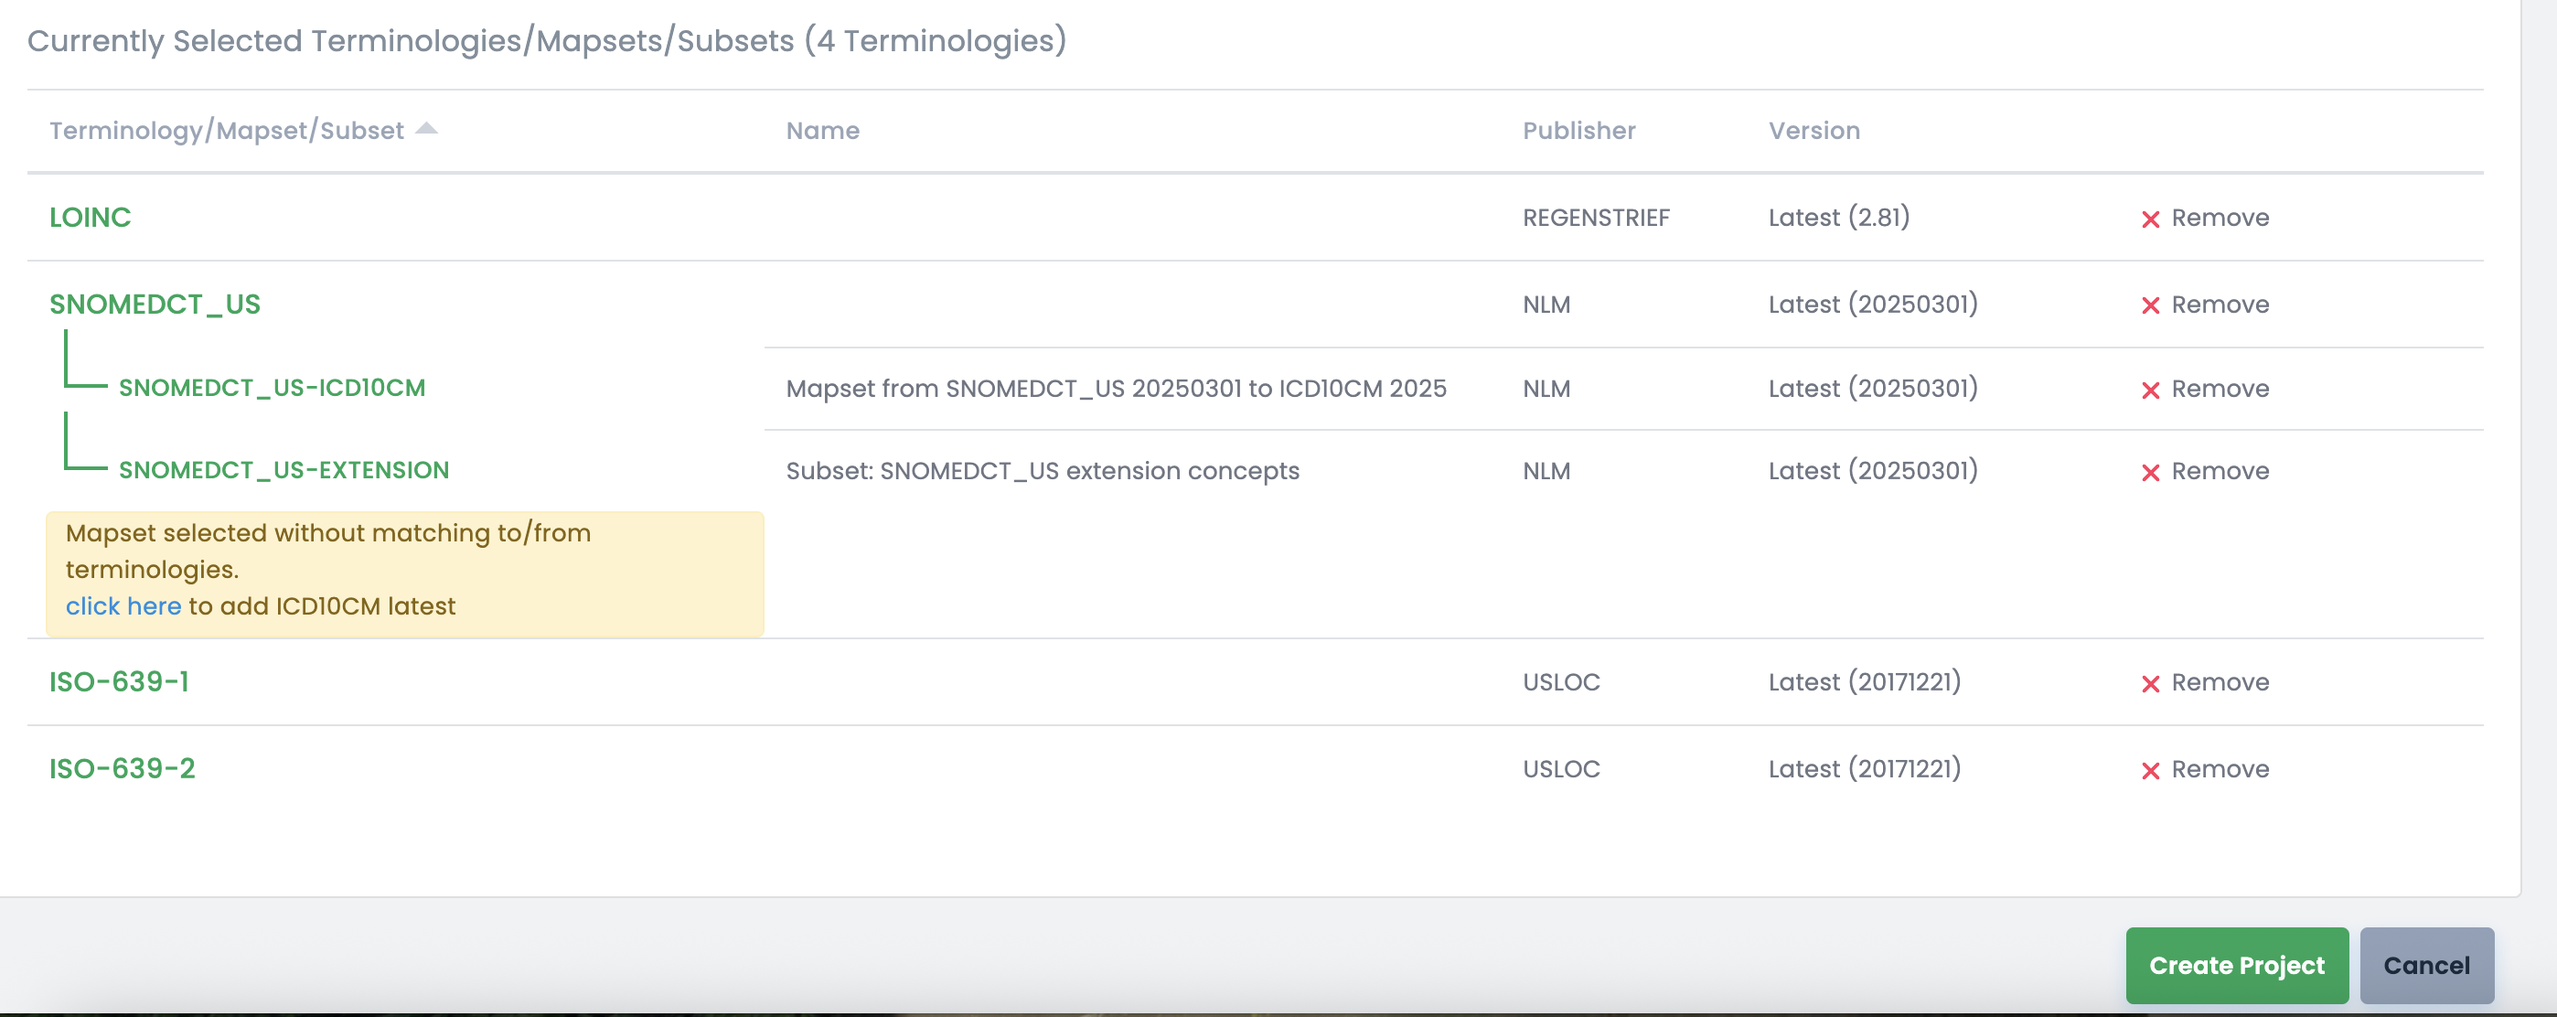
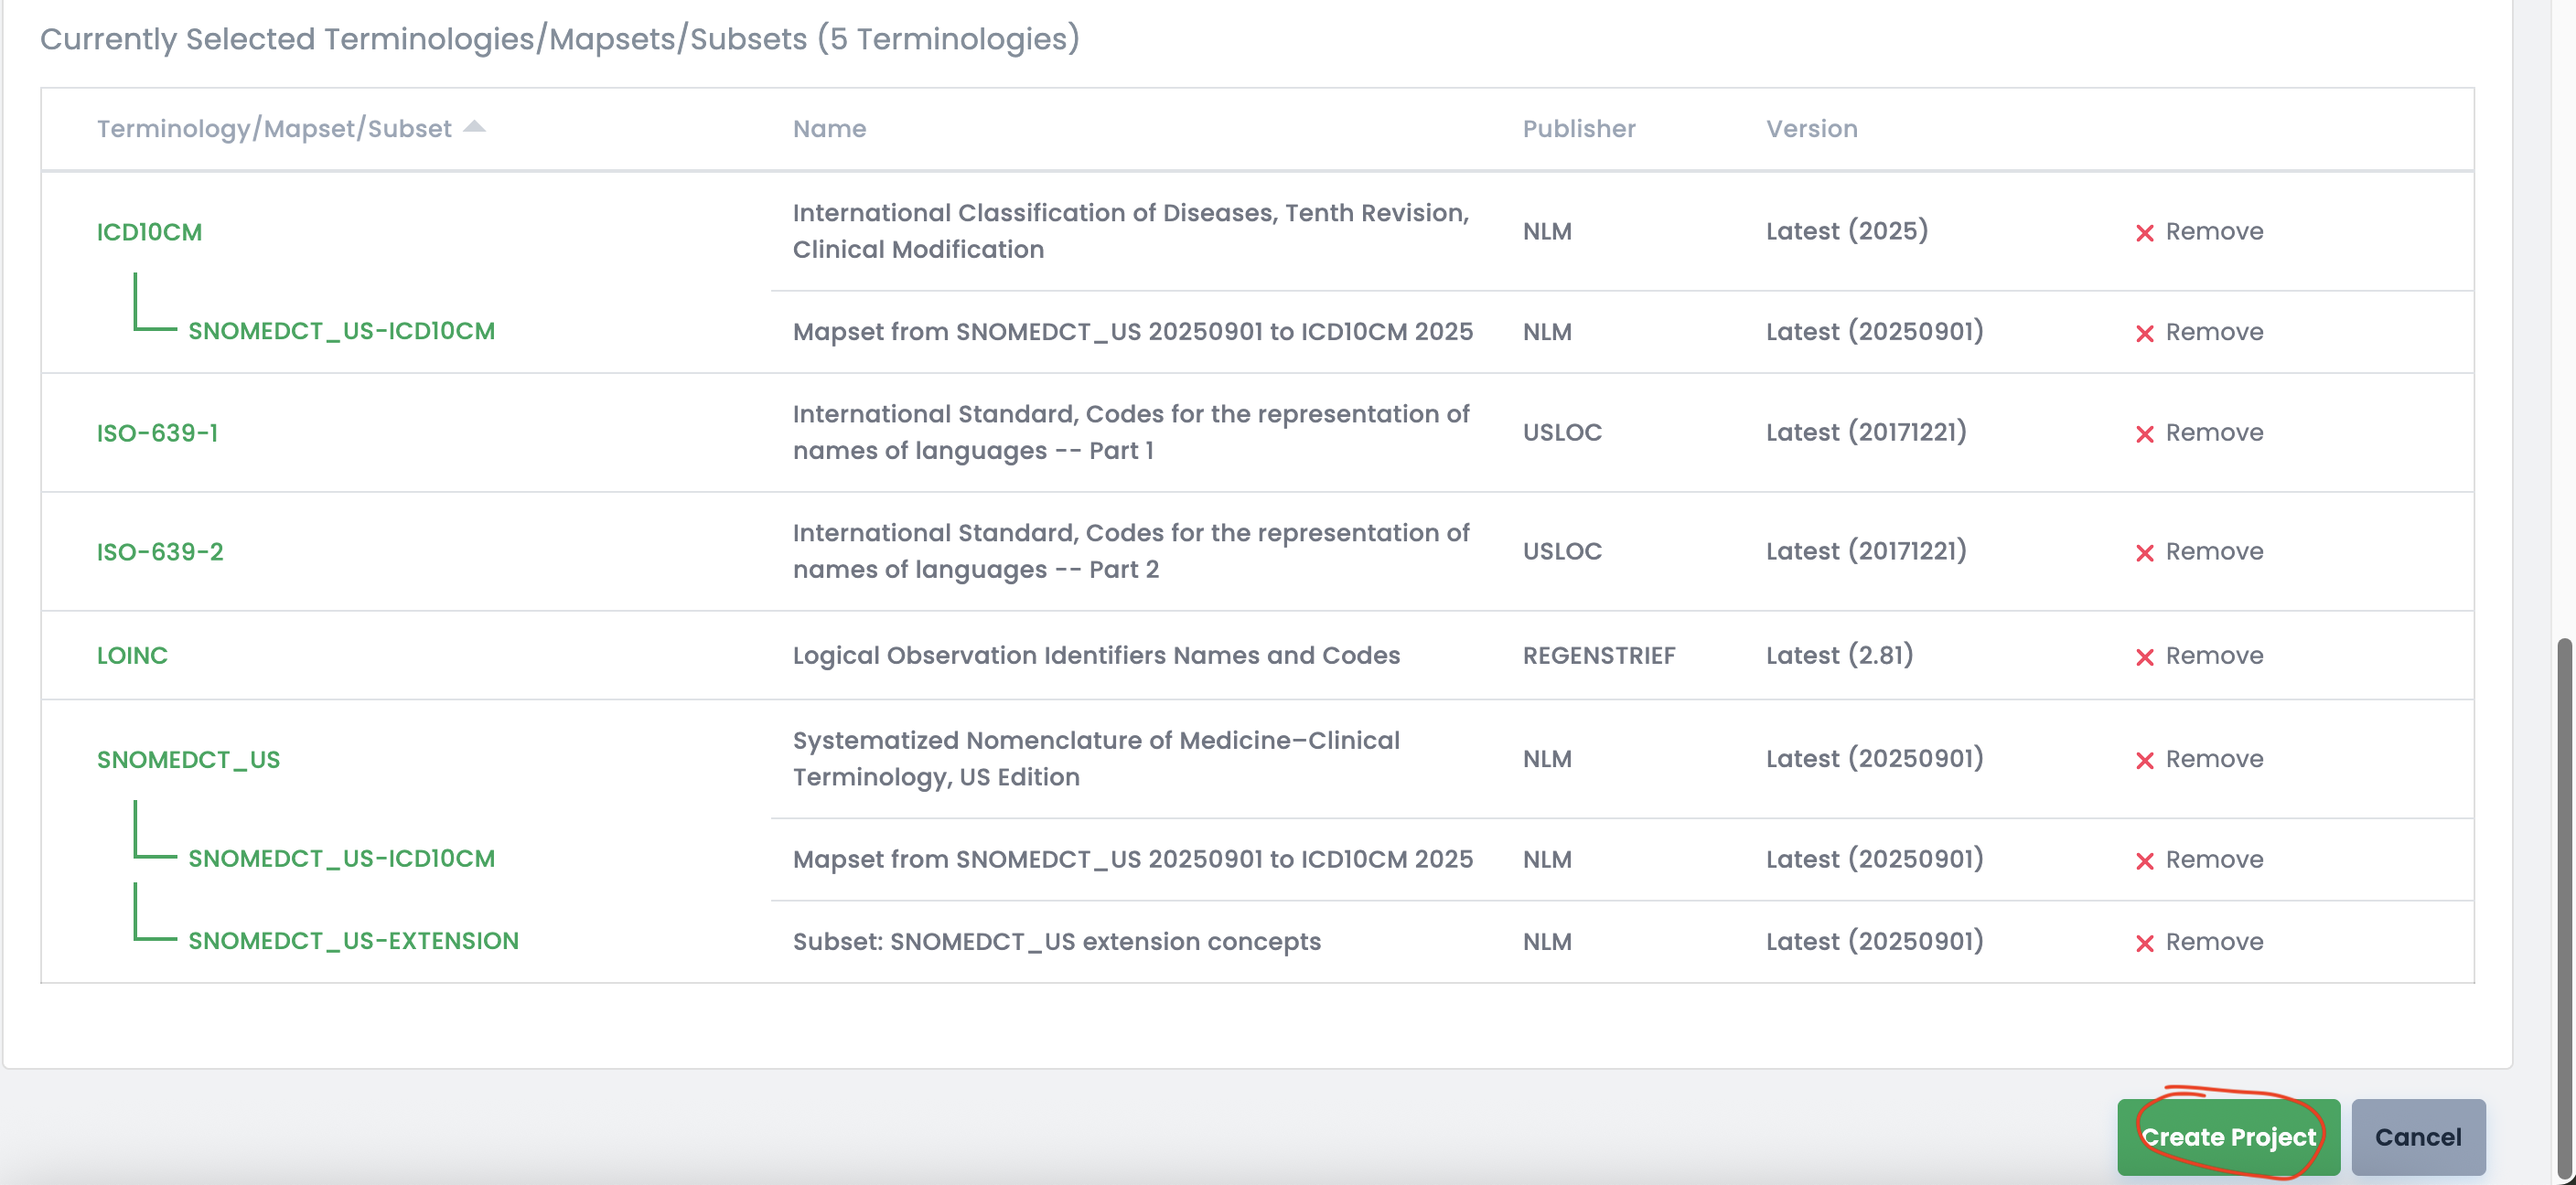
Add TUTORIAL3.md and changes to support testing it

diff --git a/src/main/java/com/wci/termhub/util/CodeSystemLoaderUtil.java b/src/main/java/com/wci/termhub/util/CodeSystemLoaderUtil.java
@@ -95,17 +95,17 @@ public final class CodeSystemLoaderUtil {
    * @param <T> the generic type
    * @param service the service
    * @param file the file
-   * @param computeTreePositions whether to compute tree positions
+   * @param enablePostLoadComputations whether to compute tree positions
    * @param type the type
    * @param listener the listener
    * @return the string
    * @throws Exception the exception
    */
   public static <T> T loadCodeSystem(final EntityRepositoryService service, final File file,
-    final boolean computeTreePositions, final Class<T> type, final ProgressListener listener)
+    final boolean enablePostLoadComputations, final Class<T> type, final ProgressListener listener)
     throws Exception {
 
-    return loadCodeSystem(service, file, computeTreePositions, type, listener, null);
+    return loadCodeSystem(service, file, enablePostLoadComputations, type, listener, null);
   }
 
   /**
@@ -114,7 +114,7 @@ public final class CodeSystemLoaderUtil {
    * @param <T>                  the generic type
    * @param service              the service
    * @param file                 the file
-   * @param computeTreePositions whether to compute tree positions
+   * @param enablePostLoadComputations whether to compute tree positions
    * @param type                 the type
    * @param listener             the listener
    * @param isSyndicated         the is syndicated
@@ -122,11 +122,11 @@ public final class CodeSystemLoaderUtil {
    * @throws Exception the exception
    */
   public static <T> T loadCodeSystem(final EntityRepositoryService service, final File file,
-      final boolean computeTreePositions, final Class<T> type, final ProgressListener listener,
+      final boolean enablePostLoadComputations, final Class<T> type, final ProgressListener listener,
       final Boolean isSyndicated) throws Exception {
 
     SystemReportUtility.logMemory();
-    return indexCodeSystem(service, file, computeTreePositions, type, listener, isSyndicated);
+    return indexCodeSystem(service, file, enablePostLoadComputations, type, listener, isSyndicated);
   }
 
   /**
@@ -135,7 +135,7 @@ public final class CodeSystemLoaderUtil {
    * @param <T> the generic type
    * @param service the service
    * @param file the file
-   * @param computeTreePositions whether to compute tree positions
+   * @param enablePostLoadComputations whether to compute tree positions
    * @param type the type
    * @param listener the listener
    * @param isSyndicated         the is syndicated
@@ -144,7 +144,7 @@ public final class CodeSystemLoaderUtil {
    */
   @SuppressWarnings("unchecked")
   private static <T> T indexCodeSystem(final EntityRepositoryService service, final File file,
-      final boolean computeTreePositions, final Class<T> type, final ProgressListener listener,
+      final boolean enablePostLoadComputations, final Class<T> type, final ProgressListener listener,
       final Boolean isSyndicated) throws Exception {
 
     final long startTime = System.currentTimeMillis();
@@ -159,7 +159,7 @@ public final class CodeSystemLoaderUtil {
 
       // Set listener to 0%
       listener.updateProgress(new ProgressEvent(0));
-      final int progressDenominator = computeTreePositions ? 50 : 100;
+      final int progressDenominator = enablePostLoadComputations ? 50 : 100;
       final float progressScale = 100.0f * progressDenominator / 100.0f;
 
       LOGGER.info("Indexing CodeSystem {} = {}", jsonContent.path("title"),
@@ -189,7 +189,7 @@ public final class CodeSystemLoaderUtil {
       }
 
       // Create the terminology
-      terminology = createTerminology(service, jsonContent, computeTreePositions);
+      terminology = createTerminology(service, jsonContent, enablePostLoadComputations);
 
       // Extract metadata from root
       final List<Metadata> metadataList = createMetadata(terminology, jsonContent);
@@ -330,7 +330,7 @@ public final class CodeSystemLoaderUtil {
       termBatch.clear();
 
       // compute tree positions if required
-      if (computeTreePositions) {
+      if (enablePostLoadComputations) {
 
         // Set listener to 51%
         listener.updateProgress(new ProgressEvent(51));
@@ -413,12 +413,12 @@ public final class CodeSystemLoaderUtil {
    *
    * @param service the service
    * @param root the root
-   * @param computeTreePositions the compute tree positions
+   * @param enablePostLoadComputations the compute tree positions
    * @return the terminology
    * @throws Exception the exception
    */
   private static Terminology createTerminology(final EntityRepositoryService service,
-    final JsonNode root, final boolean computeTreePositions) throws Exception {
+    final JsonNode root, final boolean enablePostLoadComputations) throws Exception {
 
     // Validate that this is a CodeSystem resource
     if (!root.has("resourceType") || !"CodeSystem".equals(root.get("resourceType").asText())) {
@@ -471,7 +471,7 @@ public final class CodeSystemLoaderUtil {
     }
     attributes.put("fhirVersion", root.path("version").asText());
     attributes.put(Terminology.Attributes.treePositions.property(),
-        Boolean.toString(computeTreePositions));
+        Boolean.toString(enablePostLoadComputations));
     terminology.setAttributes(attributes);
 
     if (LOGGER.isDebugEnabled()) {

diff --git a/src/main/java/com/wci/termhub/util/ValueSetLoaderUtil.java b/src/main/java/com/wci/termhub/util/ValueSetLoaderUtil.java
@@ -83,8 +83,7 @@ public final class ValueSetLoaderUtil {
   }
 
   /**
-   * Loads a FHIR ValueSet (R4 or R5) from JSON, maps to Subset/SubsetMember,
-   * and persists.
+   * Loads a FHIR ValueSet (R4 or R5) from JSON, maps to Subset/SubsetMember, and persists.
    *
    * @param <T> the generic type
    * @param service the repository service
@@ -100,8 +99,7 @@ public final class ValueSetLoaderUtil {
   }
 
   /**
-   * Loads a FHIR ValueSet (R4 or R5) from JSON, maps to Subset/SubsetMember,
-   * and persists.
+   * Loads a FHIR ValueSet (R4 or R5) from JSON, maps to Subset/SubsetMember, and persists.
    *
    * @param <T> the generic type
    * @param service the repository service
@@ -114,7 +112,8 @@ public final class ValueSetLoaderUtil {
    */
   @SuppressWarnings("unchecked")
   public static <T> T loadValueSet(final EntityRepositoryService service, final File file,
-    final Class<T> type, final ProgressListener listener, final Boolean isSyndicated) throws Exception {
+    final Class<T> type, final ProgressListener listener, final Boolean isSyndicated)
+    throws Exception {
 
     LOGGER.info("Loading Subset from JSON, isR5={}", type == org.hl7.fhir.r5.model.ValueSet.class);
 
@@ -162,8 +161,8 @@ public final class ValueSetLoaderUtil {
       final String abbreviation = valueSet.getTitle();
       final String publisher = valueSet.getPublisher();
       final String version = valueSet.getVersion();
-      if (abbreviation == null || abbreviation.isEmpty() || publisher == null
-          || publisher.isEmpty() || version == null || version.isEmpty()) {
+      if (abbreviation == null || abbreviation.isEmpty() || publisher == null || publisher.isEmpty()
+          || version == null || version.isEmpty()) {
         throw FhirUtilityR4.exception(
             "ValueSet requires title, publisher, and version for import (missing one or more)",
             IssueType.INVALID, HttpServletResponse.SC_BAD_REQUEST);
@@ -393,7 +392,7 @@ public final class ValueSetLoaderUtil {
 
     try {
 
-      LOGGER.info("Indexing ValueSet R4 {} = {}", valueSet.getTitle(), valueSet.getUrl());
+      LOGGER.info("Indexing ValueSet R5 {} = {}", valueSet.getTitle(), valueSet.getUrl());
       // Basic checks
       // Validate required fields
       if (valueSet.getUrl() == null) {

diff --git a/src/main/java/com/wci/termhub/rest/BulkLoadRestImpl.java b/src/main/java/com/wci/termhub/rest/BulkLoadRestImpl.java
@@ -10,6 +10,7 @@
 package com.wci.termhub.rest;
 
 import java.io.File;
+import java.io.InputStream;
 import java.util.ArrayList;
 import java.util.HashMap;
 import java.util.List;
@@ -251,7 +252,9 @@ public class BulkLoadRestImpl {
 
       // Write to a file so we can re-open streams against it
       final File file = File.createTempFile("tmp", ".json");
-      FileUtils.writeByteArrayToFile(file, resourceFile.getBytes());
+      try (final InputStream is = resourceFile.getInputStream()) {
+        FileUtils.copyInputStreamToFile(is, file);
+      }
 
       // If not running in the background -> load and return the resource
       if (!background) {
@@ -369,7 +372,9 @@ public class BulkLoadRestImpl {
 
       // Write to a file so we can re-open streams against it
       final File file = File.createTempFile("tmp", ".json");
-      FileUtils.writeByteArrayToFile(file, resourceFile.getBytes());
+      try (final InputStream is = resourceFile.getInputStream()) {
+        FileUtils.copyInputStreamToFile(is, file);
+      }
 
       // If not running in the background -> load and return the resource
       if (!background) {
@@ -484,7 +489,9 @@ public class BulkLoadRestImpl {
 
       // Write to a file so we can re-open streams against it
       final File file = File.createTempFile("tmp", ".json");
-      FileUtils.writeByteArrayToFile(file, resourceFile.getBytes());
+      try (final InputStream is = resourceFile.getInputStream()) {
+        FileUtils.copyInputStreamToFile(is, file);
+      }
 
       // If not running in the background -> load and return the resource
       if (!background) {
@@ -601,7 +608,10 @@ public class BulkLoadRestImpl {
 
       // Write to a file so we can re-open streams against it
       final File file = File.createTempFile("tmp", ".json");
-      FileUtils.writeByteArrayToFile(file, resourceFile.getBytes());
+      try (final InputStream is = resourceFile.getInputStream()) {
+        FileUtils.copyInputStreamToFile(is, file);
+      }
+
       final List<String> results = new ArrayList<>();
 
       if (!background) {

diff --git a/doc/TUTORIAL3.md b/doc/TUTORIAL3.md
@@ -13,9 +13,13 @@ Instructions on using data from a TermHub project to Open Termhub up and running
 
 Start by going to the [Termhub Signup Page](https://app.terminologyhub.com/signup).  You can sign up with a username/password or via social login using a Google or Microsoft account.  Your email address will be your username.
 
+<img width="300px" src="images/signup.png">
+
 ### Logging in (once you have created an account)
 
 Go to the [Termhub Login Page](https://app.terminologyhub.com/login) and log in using the account created in the previous step.
+
+<img width="300px" src="images/login.png">
 
 **[Back to top](#step-by-step-instructions-to-deploy-terminologies-with-termhub)**
 
@@ -33,55 +37,73 @@ To properly test this, you'll want to create a TermHub project with the terminol
 
 <img width="100px" src="images/new-project-button.png">
 
-* **Select your organization**
-* **Set "Project Name" to "OpenTermhub Test Project"**
-* **Set "Project Description" to "OpenTermhub Test Project"**
+* **Select your organization** (this may be "Default Org")
+* **Set "Project Name" to "Open Termhub Test Project"**
+* **Set "Project Description" to "Open Termhub Test Project"**
 
 <img width="600px" src="images/configure-new-project.png">
 
 
-* **Scroll down to choose terminologies to add**
-  * **SNOMEDCT_US latest (also select the ICD10CM maps and the extension subset)**
-  
+* **Scroll down to choose terminologies to include**
+
+    * **SNOMEDCT_US latest (also select the ICD10CM maps and the extension subset)**
 <img width="800px" src="images/configure-snomedct_us.png">
   
-  * **LOINC latest**
+    * **ICD10CM latest**
+<img width="800px" src="images/configure-icd10cm.png">
 
+    * **LOINC latest**
 <img width="800px" src="images/configure-loinc.png">
 
-  * **ISO-639-1 latest**
-  * **ISO-639-2 latest**
-  
+    * **ISO-639-1 latest**, **ISO-639-2 latest**  
 <img width="800px" src="images/configure-iso.png">
   
 * **Scroll to the bottom and click "Create project"**
 
 <img width="800px" src="images/create-project.png">
 
-* **On the project details screen, choose the icon to download all** (choose "Format: FHIR R5 json)
-
-<img width="800px" src="images/download-all.png">
-
-At this point, you will have downloaded .zip files of all the terminologies set up in the project above.
-
-<img width="800px" src="images/downloads-directory.png">
-
-The next step is to unpack all of these .zip files and put the resulting .json files all together in the same directory, so that we can run the commands to load this data into the Open TermHub server that was launched at the top.
 
 **[Back to top](#step-by-step-instructions-to-deploy-terminologies-with-termhub)**
 
 
 ## Deploy the Container with a PROJECT_API_KEY
 
+Now, you need to assign an api key to your project. In TermHub, go to your project details
+page (which is where the project creation flow above leaves off)
+
+* **Click the "Edit project settings" button** (the green three-dot button in upper right)
+* **Find "Project API Key" and click "Add"** (the green three-dot button in upper right)
+
+<img width="800px" src="images/configure-project-api-key.png">
+
+* **Copy the Project API Key" to the clipboard** (the green three-dot button in upper right)
+
+<img width="300px" src="images/copy-project-api-key.png">
+
+**[Back to top](#step-by-step-instructions-to-deploy-terminologies-with-termhub)**
+
+
+## Deploy the Container with a PROJECT_API_KEY
+
+With a "Project API Key" in hand, run the docker image using the code shown below. 
+* Choose an `INDEX_DIR` that is a volume you have permissions for and can mount to the container.  This volume will get populated with index data as terminology artifacts are loaded.
+* Use `PROJECT_API_KEY` obtained from your project, this will allow the container to syndicate your content directly to the server.
+* If you want to use the embedded browser to see hierarchies, use `ENABLE_POST_LOAD_COMPUTATIONS=true` instead of `false` as this computes tree position data used by the hierarchy browser. 
+
 ```
 # On Windows use export INDEX_DIR=c:/tmp/opentermhub/index
 # On Windows if running within wsl use export INDEX_DIR=/mnt/c/tmp/opentermhub/index
 export INDEX_DIR=/tmp/opentermhub/index
+export PROJECT_API_KEY="<your copied project api key>"
 /bin/rm -rf $INDEX_DIR/*; mkdir -p $INDEX_DIR; chmod -R a+rwx $INDEX_DIR
 docker run -d --rm --name open-termhub \
-  -e ENABLE_POST_LOAD_COMPUTATIONS=true -e JAVA_OPTS="-Xmx16g" \
+  -e JAVA_OPTS=-Xmx2g \
+  -e ENABLE_POST_LOAD_COMPUTATIONS=false \
+  -e PROJECT_API_KEY=$PROJECT_API_KEY \
   -v "$INDEX_DIR":/index -p 8080:8080 wcinformatics/open-termhub:latest
 ```
+
+With full terminologies, this process can take a little while.  For the configuration described above on a standard Macbook pro, total runtime was about 40 min and the index volume used a total of Xxx MB of disk space.
 
 **[Back to top](#step-by-step-instructions-to-deploy-terminologies-with-termhub)**
 

diff --git a/doc/TUTORIAL1.md b/doc/TUTORIAL1.md
@@ -20,7 +20,7 @@ One option is to just build the code and run the server locally and use an INDEX
 # On Windows if running within wsl use export INDEX_DIR=/mnt/c/tmp/opentermhub/index
 export INDEX_DIR=/tmp/opentermhub/index
 export ENABLE_POST_LOAD_COMPUTATIONS=false
-export JAVA_OPTS=-Xmx4g
+export JAVA_OPTS=-Xmx2g
 /bin/rm -rf $INDEX_DIR/*; mkdir -p $INDEX_DIR
 make build run
 ```
@@ -35,7 +35,7 @@ The final option is to run the latest published public docker image as a contain
 export INDEX_DIR=/tmp/opentermhub/index
 /bin/rm -rf $INDEX_DIR/*; mkdir -p $INDEX_DIR; chmod -R a+rwx $INDEX_DIR
 docker run -d --rm --name open-termhub \
-  -e JAVA_OPTS=-Xmx4g \
+  -e JAVA_OPTS=-Xmx2g \
   -e ENABLE_POST_LOAD_COMPUTATIONS=false \
   -v "$INDEX_DIR":/index -p 8080:8080 wcinformatics/open-termhub:latest
 ```

diff --git a/doc/TUTORIAL2.md b/doc/TUTORIAL2.md
@@ -31,7 +31,7 @@ One option is to just build the code and run the server locally and use an INDEX
 export INDEX_DIR=/tmp/opentermhub/index
 export ENABLE_POST_LOAD_COMPUTATIONS=false
 export PROJECT_API_KEY=$SANDBOX_KEY
-export JAVA_OPTS=-Xmx4g
+export JAVA_OPTS=-Xmx2g
 /bin/rm -rf $INDEX_DIR/*; mkdir -p $INDEX_DIR
 make build run
 ```
@@ -46,7 +46,7 @@ The final option is to run the latest published public docker image as a contain
 export INDEX_DIR=/tmp/opentermhub/index
 /bin/rm -rf $INDEX_DIR/*; mkdir -p $INDEX_DIR; chmod -R a+rwx $INDEX_DIR
 docker run -d --rm --name open-termhub \
-  -e JAVA_OPTS=-Xmx4g \
+  -e JAVA_OPTS=-Xmx2g \
   -e ENABLE_POST_LOAD_COMPUTATIONS=false \
   -e PROJECT_API_KEY="$SANDBOX_KEY" \
   -v "$INDEX_DIR":/index -p 8080:8080 wcinformatics/open-termhub:latest
